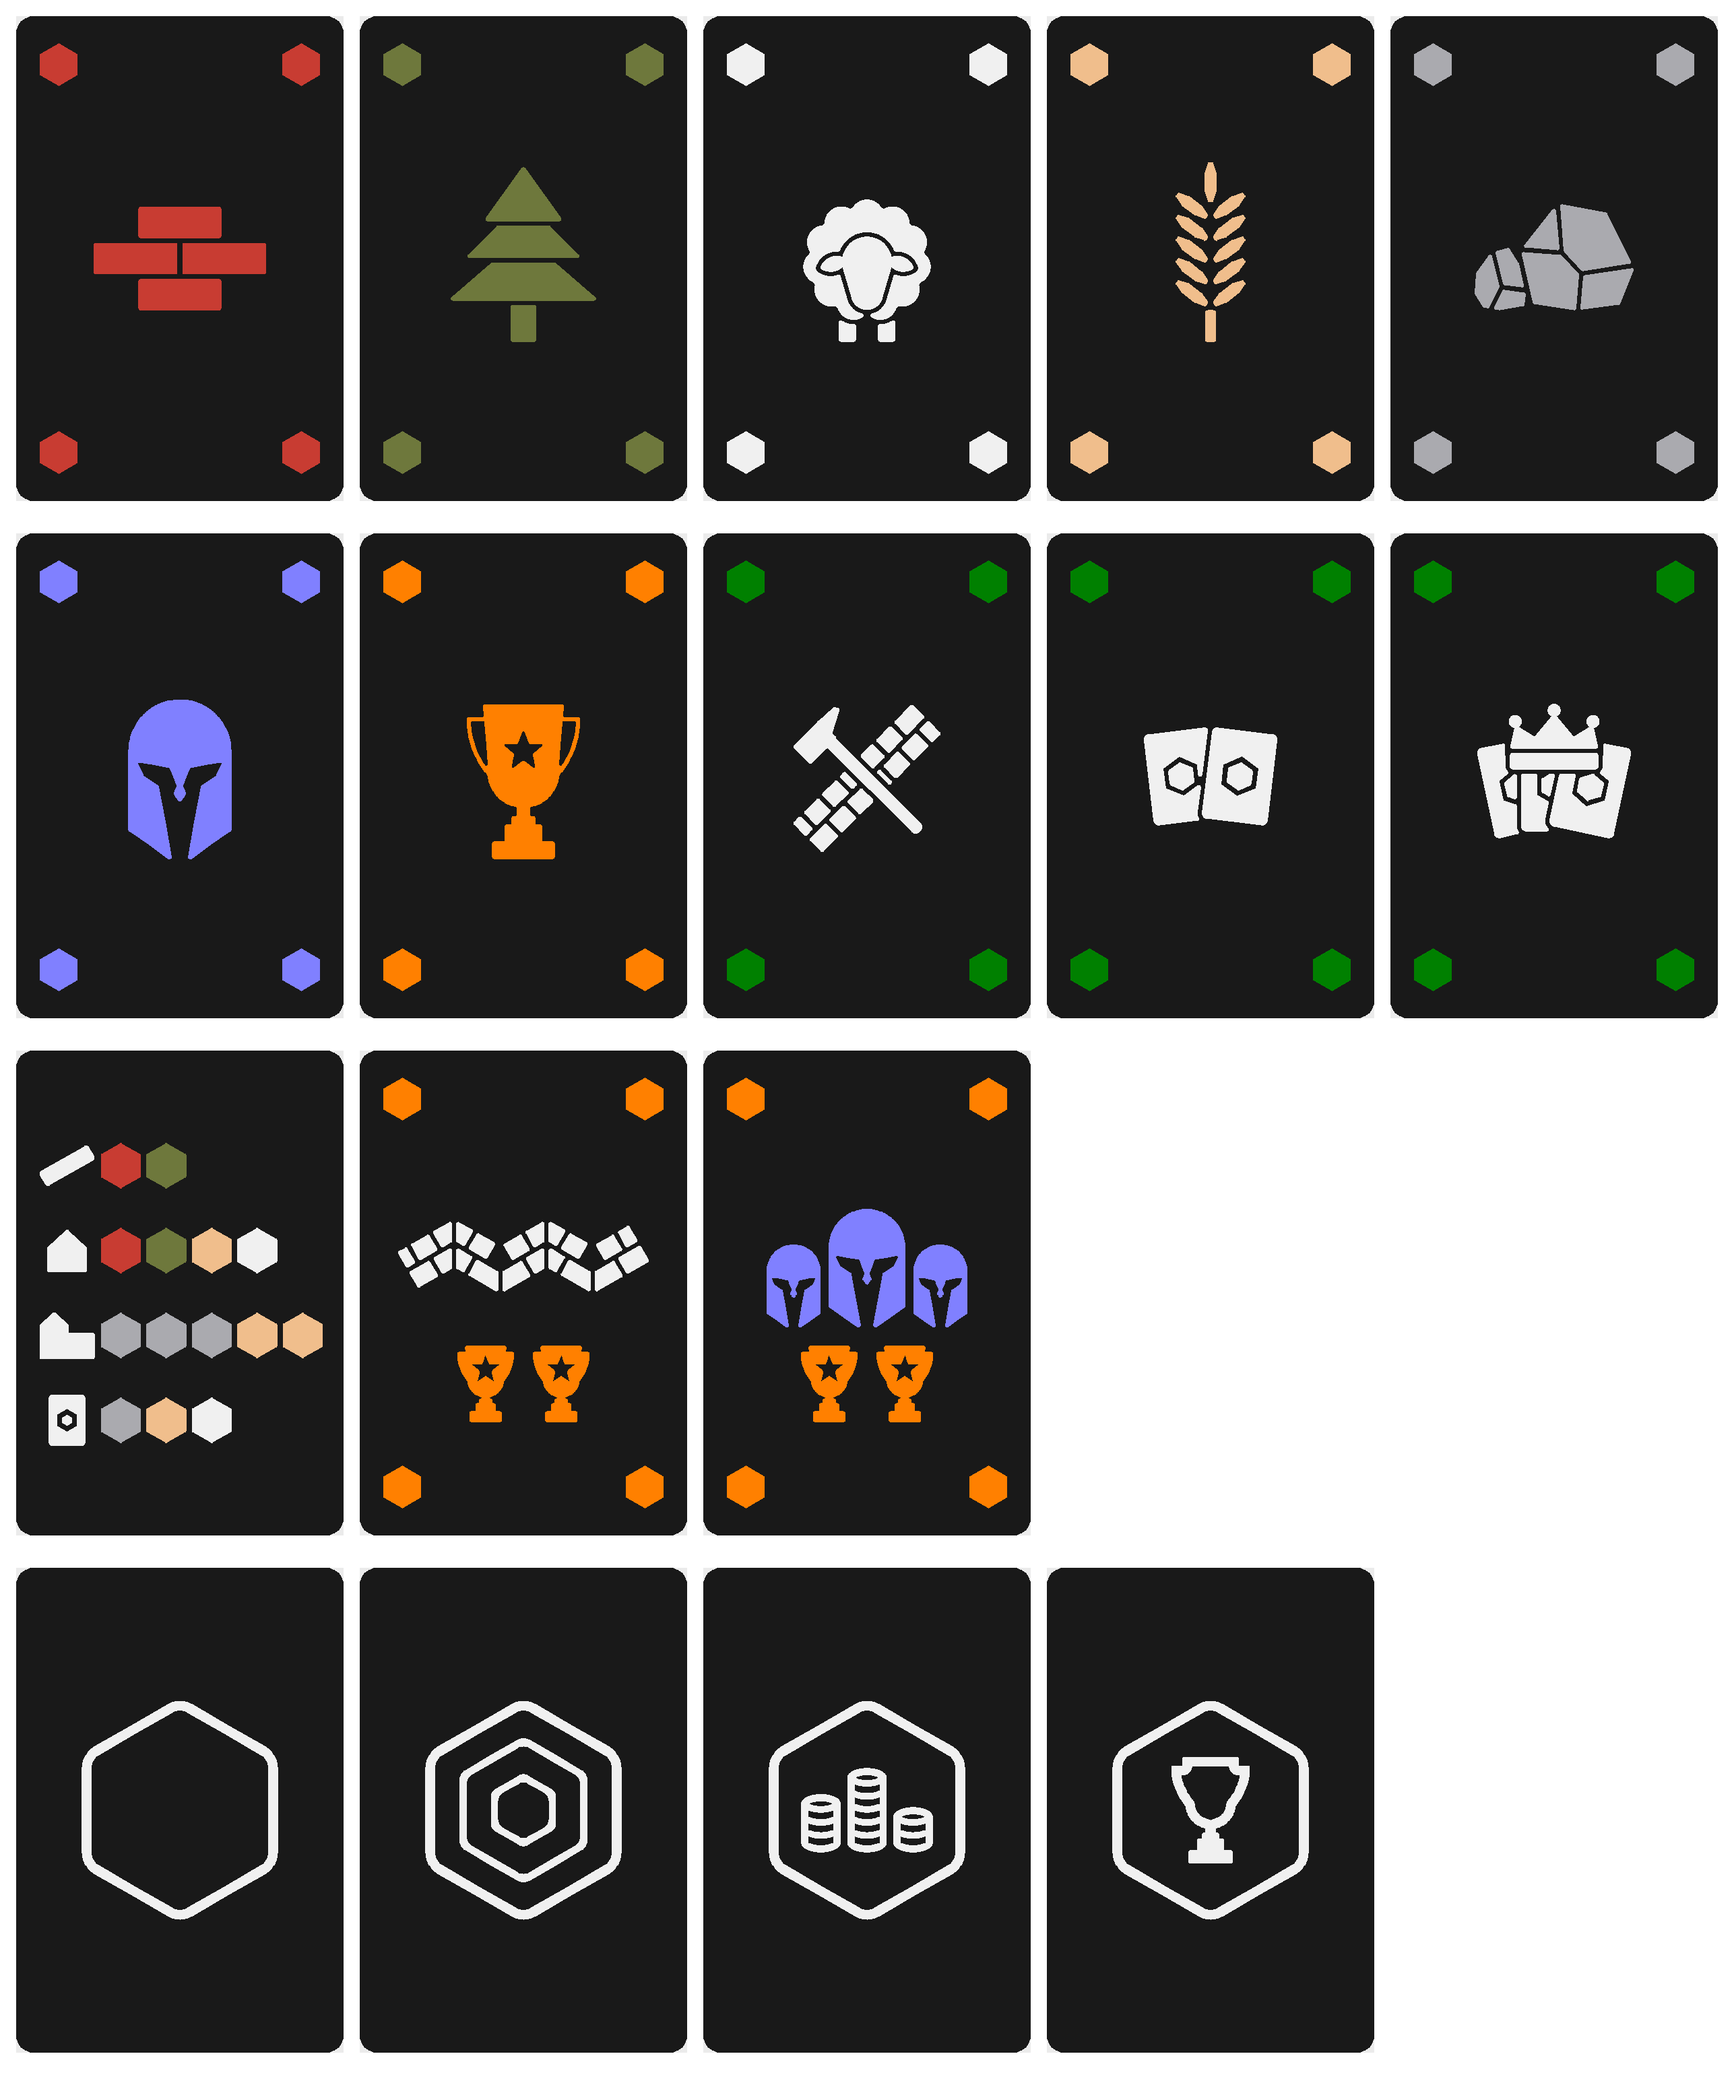
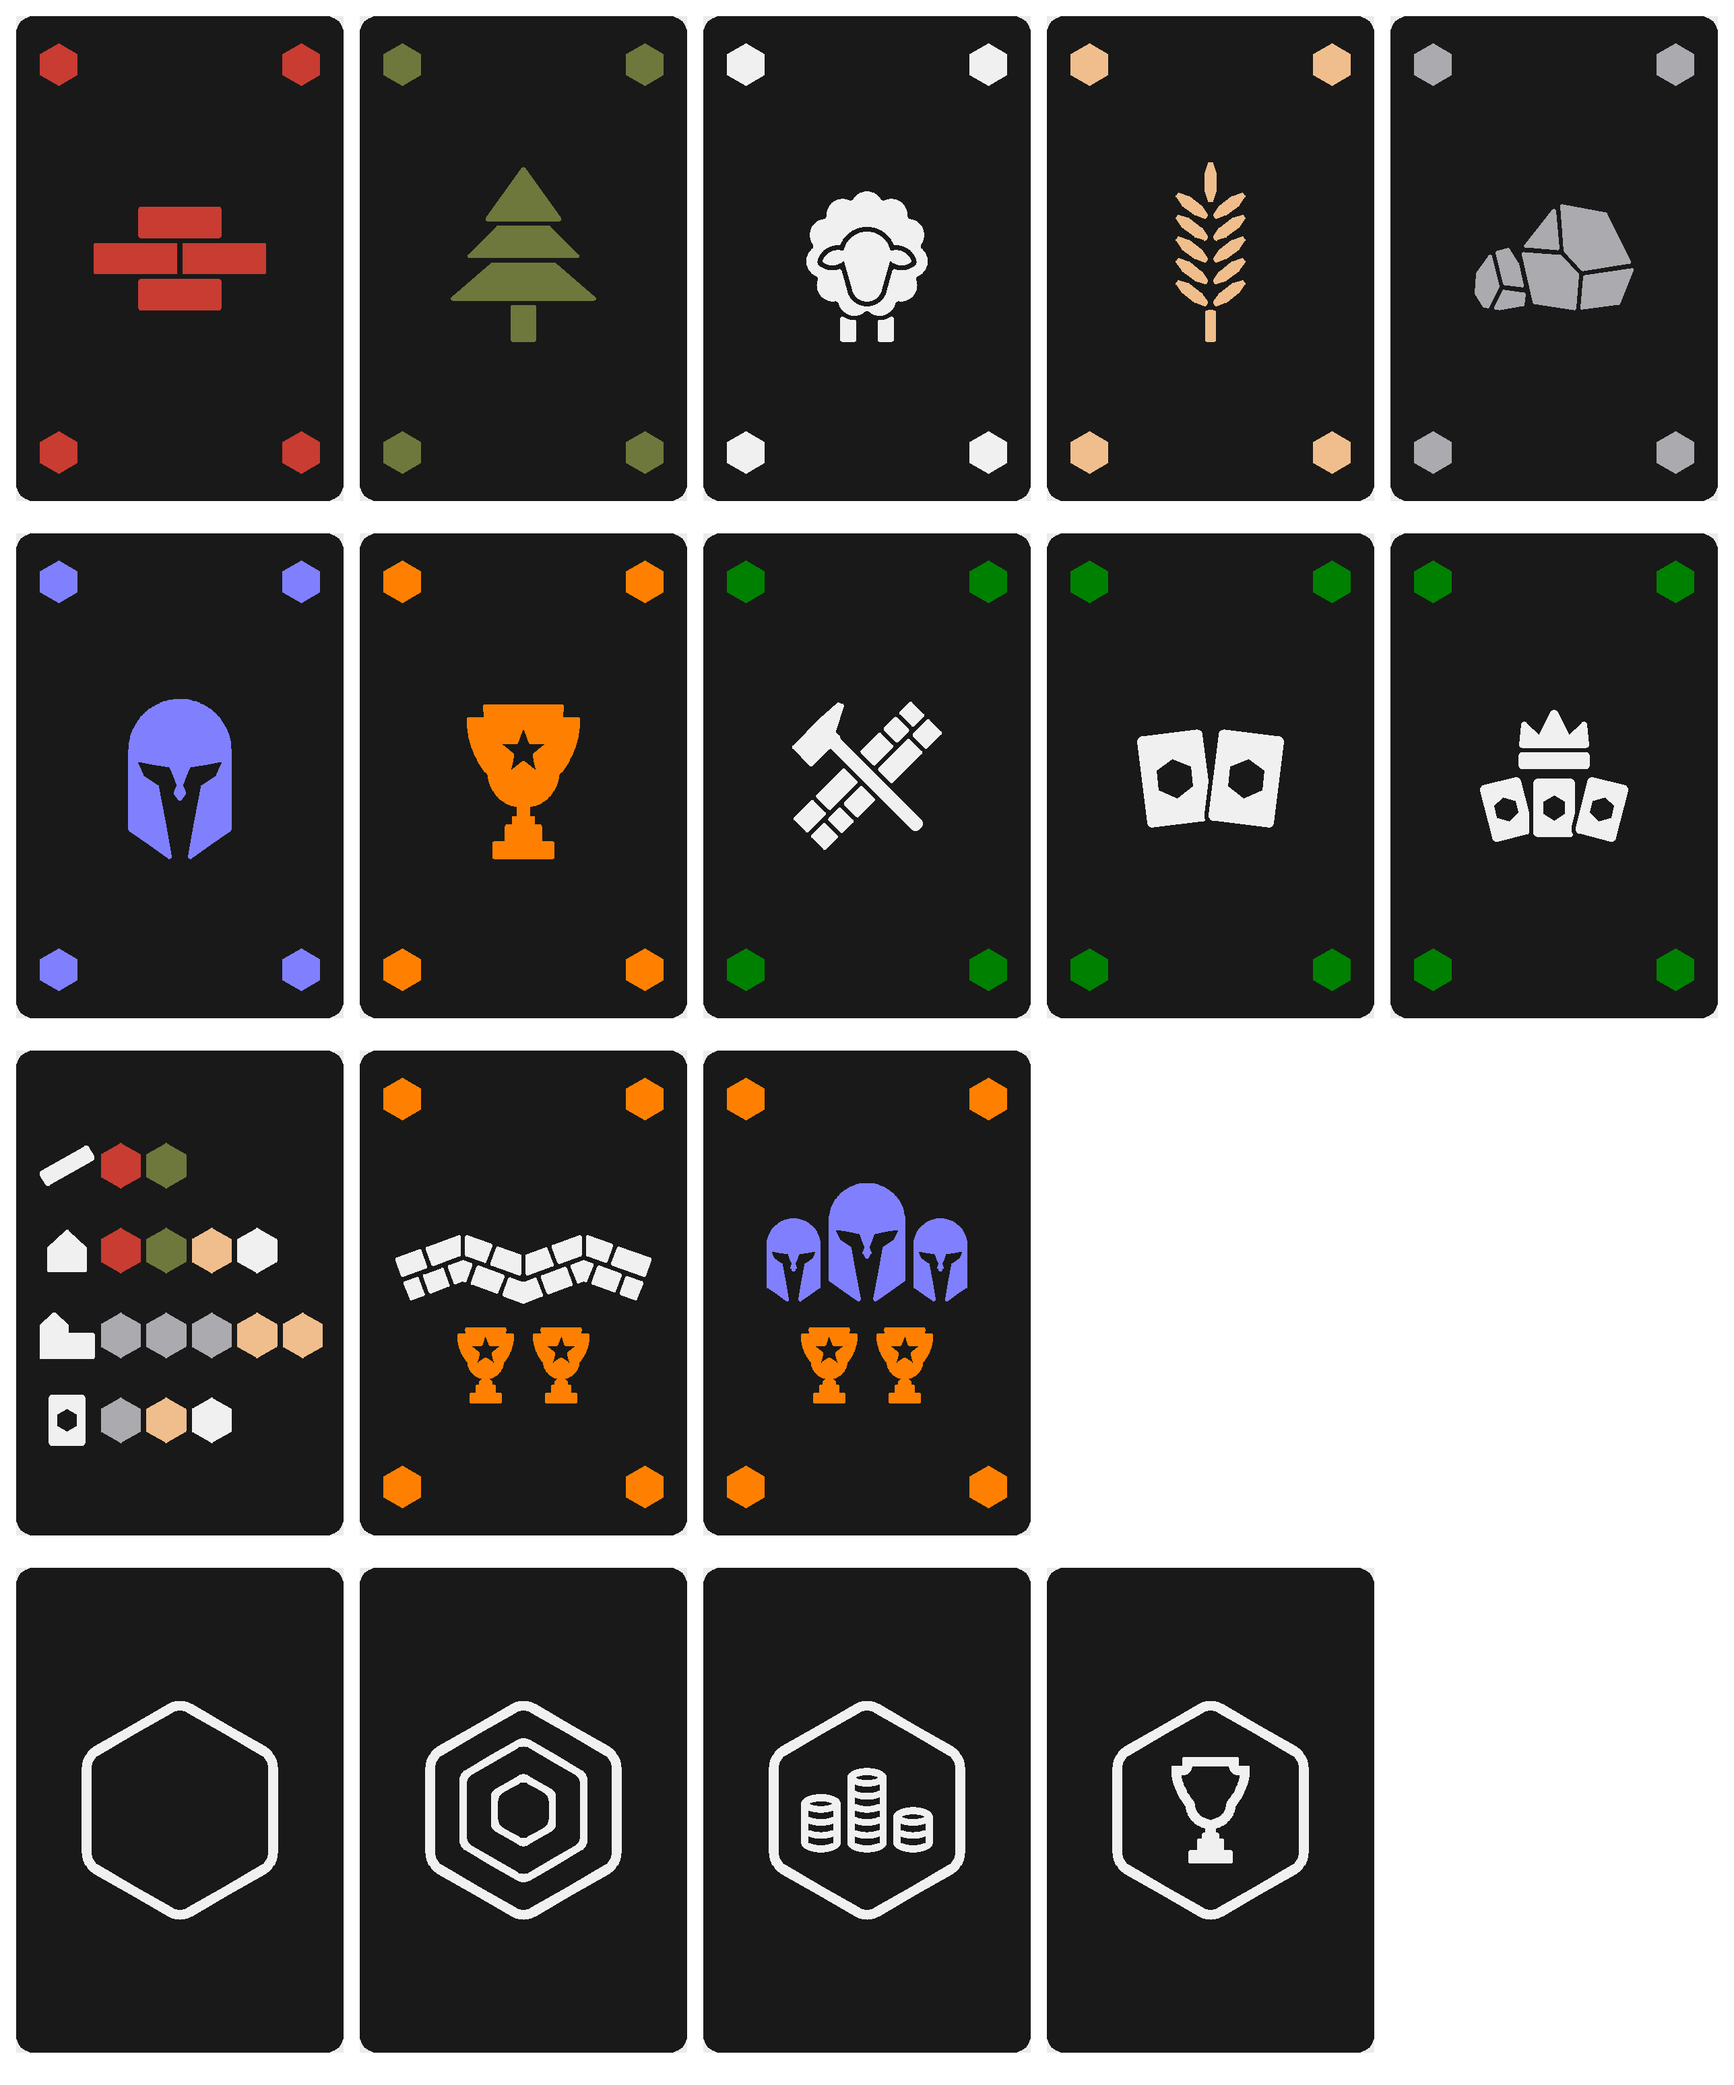
v2 cards: lock Longest Road (nudged dip), Monopoly crown, Year of Plenty by weight
Claude-Session: https://claude.ai/code/session_015QqKPzTWeH7EPURSL7R9xA

diff --git a/tools/v2/cards_v2.py b/tools/v2/cards_v2.py
@@ -139,6 +139,8 @@ def year_of_plenty():
 # ---------------------------------------------------------------- table cards
 TROPHY_H, TABLE_GAP = 12.5, 4.0
 LR_SEED = 4
+LR_DIP = {2: dict(up=0.0, lo=0.5, lo_pre=0.55, up_pre=0.0)}
+LR_NUDGE = {(2, 1, 0): 0.2}
 def trophies():
     t = G.trophy(TROPHY_H)
     w = t.bounds[2] - t.bounds[0]
@@ -150,7 +152,9 @@ def table_layout(top_slot, top):
     t = place(t, 0, tr.bounds[3] + TABLE_GAP - t.bounds[1])
     return {top_slot: t, ORANGE: tr}, ORANGE
 def longest_road():
-    return table_layout(WHITE, G.longest_road7(4, 10.6, 20, seed=LR_SEED))
+    """Road of evened irregular cobbles, 4 runs at 20 degrees; the dip's joints placed by hand (offset, angled,
+    nothing straight across), one joint nudged 1 mm to even the stones."""
+    return table_layout(WHITE, G.longest_road11(LR_DIP, nudge=LR_NUDGE, seed=LR_SEED))
 def largest_army():
     big = G.helmet(22.0); small = G.helmet(15.5); gap = 1.4
     wb = big.bounds[2] - big.bounds[0]; ws = small.bounds[2] - small.bounds[0]

diff --git a/CARDS-VERSIONS.md b/CARDS-VERSIONS.md
@@ -68,6 +68,13 @@ Preview: `catan-cards-v2-preview.png`. Code: `tools/v2/`.
   - Locked: Road Building = hammer crossed with a road of irregular, uneven cobbles (nothing left out).
     Rejected: shovel (reads as digging), pickaxe (mining / ore), hammer + shovel crossed (loses the road),
     both tools over a road (too busy).
-  - Longest Road: road of irregular cobbles, 4 runs at 20 degrees; wagon-wheel versions rejected (too busy).
-  - Open: Monopoly (crown above a fan with centre hexagons / figure behind the fan / fist holding cards).
+  - Locked: Longest Road = road of evened irregular cobbles, 4 runs at 20 degrees; joints at the bends offset (never
+    straight across); the middle dip's joints placed by hand and one joint nudged 1 mm to even the stones.
+    Rejected: wagon wheel (too busy), straight-through bend joints, regular stagger (grid pattern).
+  - Locked: Monopoly = crown just above a fan of three cards, each with its whole centre hexagon.
+    Rejected: crown resting on the fan (squashed, hexagons hidden), figure behind the fan, fist holding cards,
+    crown on a deck, crown alone with a hexagon jewel.
+  - Locked: Year of Plenty sized by weight like every icon (its cards larger than Monopoly's; matching Monopoly's
+    card size would leave it at ~106 mm2). Size options: `catan-year-of-plenty-size-options.png`.
+  - Resource sheep updated: legs and fleece raised so it is centred on its weight (feet still on the shared line).
 - Test: `catan-backs-showthrough-test.3mf` - Knight and Victory Point at 0.5 mm (left) and 0.6 mm (right).
